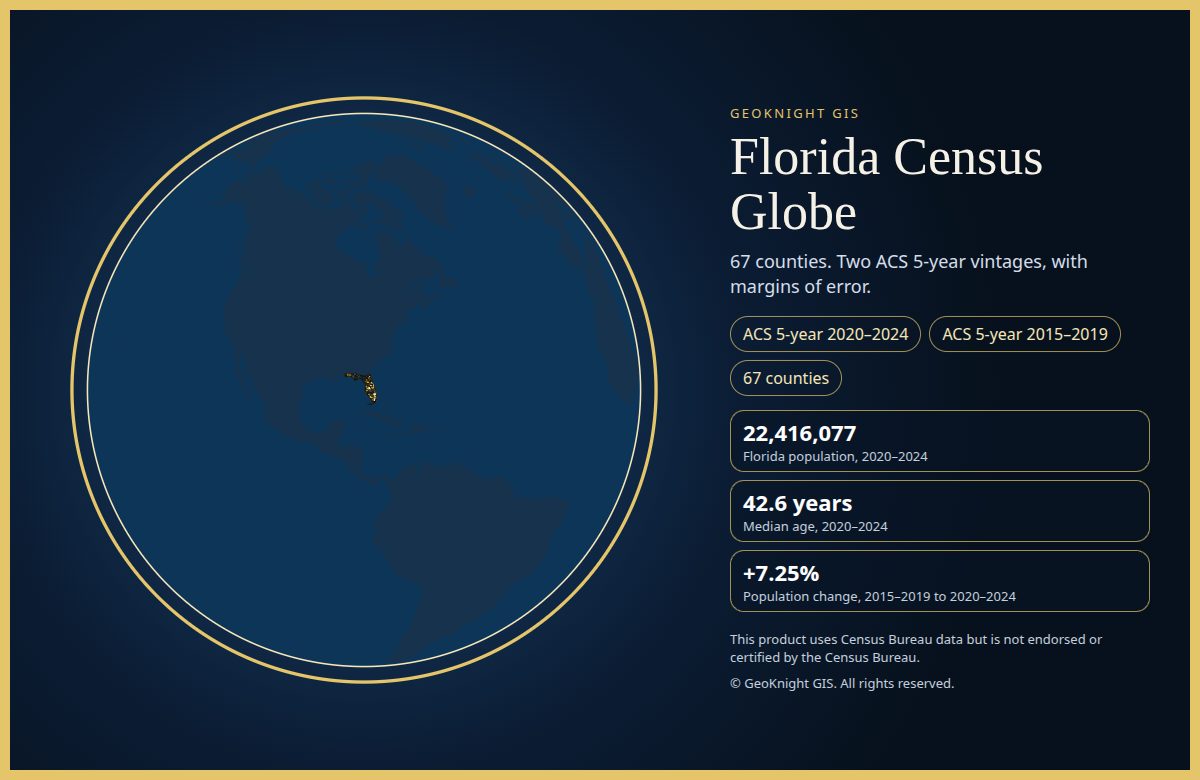
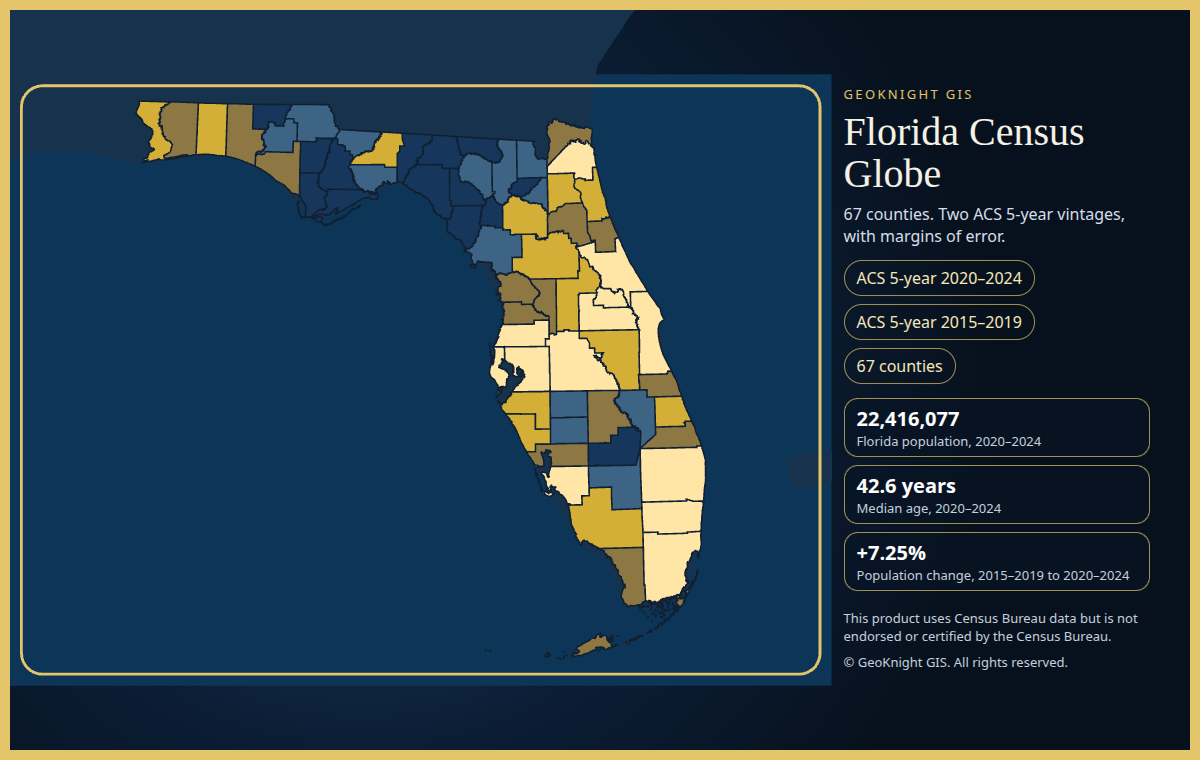
Frame the census globe and catalog cards on the whole state.
The opening camera fits the panhandle, peninsula, and Keys inside the map on both desktop and phone. The catalog cards crop the surrounding view so Florida and its counties fill the artwork.

diff --git a/globe/static/card.js b/globe/static/card.js
@@ -57,6 +57,45 @@ function projectRing(ring, lon0, lat0) {
   return parts;
 }
 
+function eachCoord(feature, fn) {
+  const walk = (node) => {
+    if (typeof node[0] === "number") fn(node[0], node[1]);
+    else node.forEach(walk);
+  };
+  walk(feature.geometry.coordinates);
+}
+
+function fitFlorida(features, width, height, pad) {
+  const lon0 = -83.8;
+  const lat0 = 27.7;
+  let minX = Infinity;
+  let minY = Infinity;
+  let maxX = -Infinity;
+  let maxY = -Infinity;
+  for (const feature of features) {
+    eachCoord(feature, (lon, lat) => {
+      const point = ortho(lon, lat, lon0, lat0);
+      if (!point.front) return;
+      minX = Math.min(minX, point.x);
+      maxX = Math.max(maxX, point.x);
+      minY = Math.min(minY, point.y);
+      maxY = Math.max(maxY, point.y);
+    });
+  }
+  const spanX = Math.max(maxX - minX, 0.001);
+  const spanY = Math.max(maxY - minY, 0.001);
+  const radius = Math.min((width - pad * 2) / spanX, (height - pad * 2) / spanY);
+  const midX = (minX + maxX) / 2;
+  const midY = (minY + maxY) / 2;
+  return {
+    lon0,
+    lat0,
+    radius,
+    cx: width / 2 - midX * radius,
+    cy: height / 2 + midY * radius,
+  };
+}
+
 function pathFor(feature, lon0, lat0, cx, cy, radius) {
   const parts = ringsOf(feature.geometry).flatMap((ring) => projectRing(ring, lon0, lat0));
   return parts.map((part) => part.map((point, index) => {
@@ -77,29 +116,19 @@ async function draw() {
     fetch("/data/ne_110m_land.geojson").then((res) => res.json()),
     fetch("/api/layer?metric=total_population&year=2024").then((res) => res.json()),
   ]);
-  const lon0 = -83.0;
-  const lat0 = 27.6;
   const svg = document.getElementById("scene");
-  const cx = 320;
-  const cy = 320;
-  const radius = 250;
+  const width = 860;
+  const height = 640;
+  svg.setAttribute("viewBox", `0 0 ${width} ${height}`);
+  const jazz = document.body.classList.contains("jazz");
+  const view = fitFlorida(counties.features, width, height, jazz ? 28 : 36);
+  const { lon0, lat0, cx, cy, radius } = view;
   const colors = Object.fromEntries(layer.features.map((row) => [row.geoid, row.color]));
-  const ocean = document.createElementNS("http://www.w3.org/2000/svg", "circle");
-  ocean.setAttribute("cx", cx);
-  ocean.setAttribute("cy", cy);
-  ocean.setAttribute("r", radius);
+  const ocean = document.createElementNS("http://www.w3.org/2000/svg", "rect");
+  ocean.setAttribute("width", width);
+  ocean.setAttribute("height", height);
   ocean.setAttribute("fill", "#0c3558");
   svg.append(ocean);
-  if (document.body.classList.contains("jazz")) {
-    const ring = document.createElementNS("http://www.w3.org/2000/svg", "circle");
-    ring.setAttribute("cx", cx);
-    ring.setAttribute("cy", cy);
-    ring.setAttribute("r", radius + 14);
-    ring.setAttribute("fill", "none");
-    ring.setAttribute("stroke", "#e4c56a");
-    ring.setAttribute("stroke-width", "3");
-    svg.append(ring);
-  }
   for (const feature of land.features) {
     const d = pathFor(feature, lon0, lat0, cx, cy, radius);
     if (!d) continue;
@@ -114,18 +143,22 @@ async function draw() {
     const path = document.createElementNS("http://www.w3.org/2000/svg", "path");
     path.setAttribute("d", d);
     path.setAttribute("fill", colors[feature.properties.geoid] || "#e4c56a");
-    path.setAttribute("stroke", "#1a1404");
-    path.setAttribute("stroke-width", "0.6");
+    path.setAttribute("stroke", "#102033");
+    path.setAttribute("stroke-width", "1.7");
     svg.append(path);
   }
-  const limb = document.createElementNS("http://www.w3.org/2000/svg", "circle");
-  limb.setAttribute("cx", cx);
-  limb.setAttribute("cy", cy);
-  limb.setAttribute("r", radius);
-  limb.setAttribute("fill", "none");
-  limb.setAttribute("stroke", "#f6e7b8");
-  limb.setAttribute("stroke-width", "1.4");
-  svg.append(limb);
+  if (jazz) {
+    const frame = document.createElementNS("http://www.w3.org/2000/svg", "rect");
+    frame.setAttribute("x", "12");
+    frame.setAttribute("y", "12");
+    frame.setAttribute("width", String(width - 24));
+    frame.setAttribute("height", String(height - 24));
+    frame.setAttribute("rx", "22");
+    frame.setAttribute("fill", "none");
+    frame.setAttribute("stroke", "#e4c56a");
+    frame.setAttribute("stroke-width", "3");
+    svg.append(frame);
+  }
 
   const y2024 = florida.state.estimates["2024"];
   const growth = florida.state.growth["2019-2024"].population_growth.value;

diff --git a/globe/static/app.js b/globe/static/app.js
@@ -94,8 +94,8 @@ function initMap(counties, land) {
       sources: {},
       layers: [{ id: "background", type: "background", paint: { "background-color": "#07111d" } }],
     },
-    center: [-83.4, 27.9],
-    zoom: 5.35,
+    center: [-83.7, 27.6],
+    zoom: 5.6,
     minZoom: 1.4,
     maxZoom: 9,
     attributionControl: false,
@@ -131,7 +131,12 @@ function initMap(counties, land) {
       paint: { "line-color": "#fff6d8", "line-width": 2.2 },
       filter: ["==", ["get", "geoid"], ""],
     });
-    frameFlorida(false, true);
+    frameFlorida(false);
+    window.addEventListener("resize", () => {
+      if (state.flew) return;
+      clearTimeout(state.frameTimer);
+      state.frameTimer = setTimeout(() => frameFlorida(false), 150);
+    });
     map.on("mousemove", "counties", (event) => {
       const feature = event.features && event.features[0];
       if (!feature) return;
@@ -151,13 +156,23 @@ function initMap(counties, land) {
   });
 }
 
-function frameFlorida(animate, close) {
-  const box = state.meta.bbox;
-  const center = [(box[0] + box[2]) / 2, (box[1] + box[3]) / 2];
-  const zoom = state.projection === "globe" ? (close ? 5.35 : 2.15) : (close ? 6.15 : 5.5);
-  const view = { center, zoom };
-  if (animate && motionOk()) state.map.easeTo({ ...view, duration: 600 });
-  else state.map.jumpTo(view);
+function floridaPadding() {
+  const narrow = window.innerWidth <= 980;
+  // Keep the panhandle, peninsula, and Keys inside the map, clear of the
+  // buttons, zoom control, and legend.
+  return narrow
+    ? { top: 76, right: 54, bottom: 196, left: 36 }
+    : { top: 68, right: 36, bottom: 168, left: 20 };
+}
+
+function frameFlorida(animate) {
+  const [west, south, east, north] = state.meta.bbox;
+  const bounds = [[west - 0.28, south - 0.42], [east + 0.32, north + 0.22]];
+  state.map.fitBounds(bounds, {
+    padding: floridaPadding(),
+    maxZoom: 7.2,
+    duration: animate && motionOk() ? 600 : 0,
+  });
 }
 
 function setProjection(next) {
@@ -186,6 +201,7 @@ async function refreshLayer() {
   if (!state.booted) {
     const top = layer.features.reduce((best, row) => (row.value != null && (best == null || row.value > best.value) ? row : best), null);
     if (top) await selectCounty(top.geoid, false);
+    frameFlorida(false);
     state.booted = true;
     const shot = new URLSearchParams(location.search).get("shot");
     if (shot === "ask") {
@@ -196,7 +212,7 @@ async function refreshLayer() {
     } else if (shot === "flat") {
       setProjection("flat");
     } else if (shot === "close") {
-      frameFlorida(false, true);
+      frameFlorida(false);
     } else if (shot === "compare") {
       showTab("compare");
       const miami = state.meta.counties.find((county) => county.name.startsWith("Miami-Dade"));
@@ -209,7 +225,7 @@ async function refreshLayer() {
         await loadCompare();
       }
     }
-    document.body.dataset.map = "ready";
+        state.map.once("idle", () => { document.body.dataset.map = "ready"; });
   } else if (state.geoid) {
     highlight(state.geoid);
     loadDetail();
@@ -271,6 +287,7 @@ async function selectCounty(geoid, fly) {
   highlight(geoid);
   showTab("detail");
   if (fly && state.map) {
+    state.flew = true;
     const features = state.map.querySourceFeatures("counties", { filter: ["==", ["get", "geoid"], geoid] });
     if (features[0]) {
       const center = centerOf(features[0]);
@@ -438,7 +455,7 @@ function setYear(year) {
 }
 $("view-globe").addEventListener("click", () => setProjection("globe"));
 $("view-flat").addEventListener("click", () => setProjection("flat"));
-$("view-florida").addEventListener("click", () => frameFlorida(true, true));
+$("view-florida").addEventListener("click", () => frameFlorida(true));
 $("county-search").addEventListener("input", (event) => {
   const query = event.target.value.trim().toLowerCase();
   for (const button of $("county-list").querySelectorAll("button")) {

diff --git a/globe/static/card.css b/globe/static/card.css
@@ -5,7 +5,7 @@ body { font-family: "Avenir Next", "Segoe UI", sans-serif; color: #f6f1e6; }
 #card {
   height: 100%;
   display: grid;
-  grid-template-columns: 1.05fr 0.95fr;
+  grid-template-columns: 1.55fr 0.78fr;
   background:
     radial-gradient(circle at 30% 50%, #1a4570 0%, #0b1c33 42%, #07111d 70%);
   border: 10px solid #e4c56a;
@@ -14,8 +14,8 @@ body { font-family: "Avenir Next", "Segoe UI", sans-serif; color: #f6f1e6; }
 svg { width: 100%; height: 100%; }
 .copy { padding: 36px 40px 28px 12px; display: flex; flex-direction: column; justify-content: center; }
 .kicker { letter-spacing: 0.18em; text-transform: uppercase; color: #e4c56a; margin: 0 0 8px; font-size: 13px; }
-h1 { font-family: Georgia, Palatino, serif; font-weight: 500; font-size: 46px; line-height: 1.05; margin: 0 0 10px; }
-.deck { margin: 0 0 16px; color: #d5deea; font-size: 18px; line-height: 1.4; }
+h1 { font-family: Georgia, Palatino, serif; font-weight: 500; font-size: 38px; line-height: 1.05; margin: 0 0 8px; }
+.deck { margin: 0 0 12px; color: #d5deea; font-size: 16px; line-height: 1.4; }
 .chips, .stats { display: flex; flex-wrap: wrap; gap: 8px; margin-bottom: 14px; }
 .chips span, .stats div {
   border: 1px solid rgba(228, 197, 106, 0.7);
@@ -25,12 +25,12 @@ h1 { font-family: Georgia, Palatino, serif; font-weight: 500; font-size: 46px; l
 }
 .stats { display: grid; grid-template-columns: 1fr; gap: 8px; }
 .stats div { border-radius: 14px; background: rgba(8, 20, 36, 0.55); }
-.stats strong { display: block; color: #fff; font-size: 22px; }
+.stats strong { display: block; color: #fff; font-size: 20px; }
 .stats span { display: block; color: #c5d0de; font-size: 13px; }
 .fine, .mark { color: #c5d0de; font-size: 13px; line-height: 1.4; margin: 4px 0; }
-body.jazz #card { grid-template-columns: 1.2fr 0.8fr; }
-body.jazz h1 { font-size: 52px; }
-body.jazz .copy { padding-top: 48px; }
+body.jazz #card { grid-template-columns: 1.65fr 0.72fr; }
+body.jazz h1 { font-size: 40px; }
+body.jazz .copy { padding-top: 28px; }
 @media (max-width: 800px) {
   #card { grid-template-columns: 1fr; border-width: 6px; }
   svg { height: 280px; }

diff --git a/globe/static/styles.css b/globe/static/styles.css
@@ -12,12 +12,13 @@
   color-scheme: dark;
 }
 * { box-sizing: border-box; }
-html, body { margin: 0; min-height: 100%; background: var(--navy); color: var(--ink); }
+html, body { margin: 0; height: 100%; background: var(--navy); color: var(--ink); }
 body {
   font-family: "Avenir Next", "Segoe UI", "Helvetica Neue", sans-serif;
   display: grid;
-  min-height: 100vh;
-  grid-template-rows: auto 1fr auto;
+  height: 100vh;
+  overflow: hidden;
+  grid-template-rows: auto minmax(0, 1fr) auto;
 }
 button, input, select, textarea { font: inherit; color: inherit; }
 button, select { min-height: 44px; }
@@ -124,8 +125,10 @@ footer {
 footer p { margin: 0; max-width: 860px; }
 h2 { font-family: Georgia, Palatino, serif; font-weight: 500; font-size: 1.35rem; margin: 0 0 6px; }
 @media (max-width: 980px) {
-  .stage { grid-template-columns: 1fr; grid-template-areas: "map" "detail" "tools"; }
-  .map-wrap { min-height: 70vh; }
+  body { height: auto; overflow: auto; }
+  .stage { grid-template-columns: 1fr; grid-template-areas: "map" "detail" "tools"; height: auto; }
+  .map-wrap { height: 78vh; min-height: 78vh; }
+  .legend { max-width: min(210px, 58%); bottom: 46px; }
   .tools, .detail { border: 0; border-top: 1px solid var(--line); }
   .county-list { max-height: 240px; }
   .top { align-items: flex-start; flex-direction: column; }

diff --git a/docs/florida-census-globe.md b/docs/florida-census-globe.md
@@ -98,4 +98,4 @@ uv run pytest -q
 
 `tests/test_globe.py` checks the export, the router, the disabled adapter, and the loopback server. `tests/test_metrics.py` still runs the warehouse metrics when `data/census.duckdb` is present. On the machine that produced this branch, `uv run pytest -q` reported 57 passed.
 
-Screenshots from that local run are in `globe/catalog/`. The phone-width capture shows the county choropleth on the globe. A wide headless capture sometimes drew the globe limb before every county fill finished; the loopback page itself is the check. The catalog card images are orthographic drawings of the same county file and the same export.
+The opening view fits the whole state — panhandle, peninsula, and Keys — inside the map, on the globe projection. The catalog cards use the same county file, cropped so Florida fills the artwork. Screenshots are in `globe/catalog/`.
